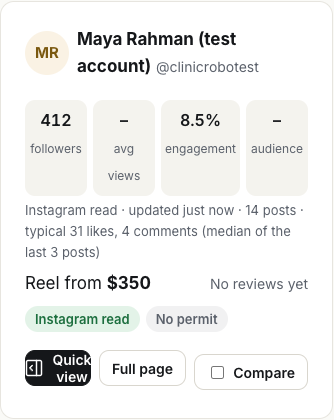
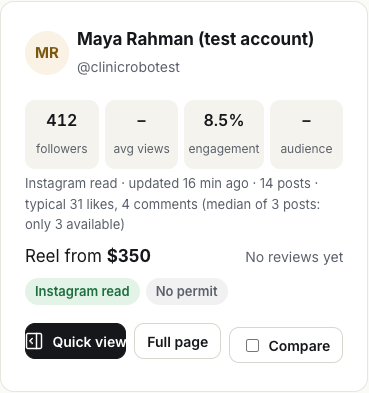
Small fixes: unknown rates show a dash, 12-post basis, one status word per money line, Quick view on one line

diff --git a/web/creators.html b/web/creators.html
@@ -116,7 +116,7 @@ function cardHtml(c) {
     <div class="row wrapx" style="gap:6px;margin-top:8px">${srcBadge(c.source)}${c.stale ? '<span class="pill failed">Data may be outdated</span>' : ""}
       <span class="pill ${c.permit.state === "ok" ? "collected" : c.permit.state === "soon" ? "waiting" : ""}">${c.permit.state === "ok" ? "Permit <i data-lucide='check' aria-hidden='true'></i>" : c.permit.state === "missing" ? "No permit" : "Permit: " + esc(c.permit.label)}</span></div>
     <div class="row" style="gap:8px;margin-top:10px">
-      <button class="btn small primary grow" data-qv="${esc(c.handle)}"><i data-lucide='panel-right-open' aria-hidden='true'></i> Quick view</button>
+      <button class="btn small primary grow" data-qv="${esc(c.handle)}" style="white-space:nowrap"><i data-lucide='panel-right-open' aria-hidden='true'></i> Quick view</button>
       <a class="btn small" href="/c/${esc(c.handle)}">Full page</a>
       <label class="btn small" style="gap:6px"><input type="checkbox" data-cmp="${c.id}" ${CMP.has(c.id) ? "checked" : ""} style="width:auto"> Compare</label></div>
   </div>`;
@@ -139,7 +139,7 @@ async function quickView(handle) {
     <div class="row wrapx" style="gap:6px">${(p.niches || []).map(n => `<span class="pill">${esc(n)}</span>`).join("")}</div>
     <h3 style="margin-top:16px">Reach</h3>
     ${(p.metrics || []).map(m => `<div class="stats"><div><b>${fmtN(m.followers)}</b><span>${esc(m.platform)} followers</span></div><div><b>${fmtN(m.avg_views)}</b><span>avg views</span></div>
-      <div><b>${m.engagement_rate}%</b><span>engagement</span></div></div><p class="tiny muted" style="margin-top:-4px">${m.ig ? esc(igReadLine(m.ig)) : `${esc(SRC_LABEL[m.source] || m.source)} · as of ${esc(m.as_of)}`}${m.stale ? " · may be outdated" : ""}</p>`).join("") || '<p class="small muted">No numbers shared yet.</p>'}
+      <div><b>${pct(m.engagement_rate)}</b><span>engagement</span></div></div><p class="tiny muted" style="margin-top:-4px">${m.ig ? esc(igReadLine(m.ig)) : `${esc(SRC_LABEL[m.source] || m.source)} · as of ${esc(m.as_of)}`}${m.stale ? " · may be outdated" : ""}</p>`).join("") || '<p class="small muted">No numbers shared yet.</p>'}
     <h3>Prices</h3><div class="list">${p.items.filter(i => i.standard_cents != null).slice(0, 6).map(i => `<div class="line"><div class="grow">${esc(i.name)}</div><div class="amt">${usd(i.standard_cents)}<div class="aed">${esc(i.aed)}</div></div></div>`).join("")}</div>
     <p class="small muted" style="margin-top:10px">On Amend: ${tr.completed || 0} deals completed${tr.rating ? ` · rating ${tr.rating} (${tr.reviews})` : ""}</p>
     ${brand && lists.length ? `<label for="qv-list">Add to a shortlist</label><div class="row" style="gap:8px"><select id="qv-list">${lists.map(l => `<option value="${l.id}">${esc(l.name)}</option>`).join("")}</select>

diff --git a/web/static/app.js b/web/static/app.js
@@ -63,8 +63,11 @@ function humanDates(s) { return String(s == null ? "" : s).replace(/\b\d{4}-\d{2
 function igReadLine(ig) {
   if (!ig) return "";
   const n = v => v == null ? "–" : Number(v).toLocaleString("en-US");
-  return `Instagram read · updated ${ago(ig.read_at)} · ${n(ig.posts)} posts · typical ${n(ig.median_likes)} likes, ${n(ig.median_comments)} comments (median of the last ${n(ig.posts_used)} posts)`;
+  const used = ig.posts_used || 0;
+  const basis = used >= 12 ? "median of the last 12 posts" : used ? `median of ${used} post${used === 1 ? "" : "s"}: only ${used} available` : "no posts available";
+  return `Instagram read · updated ${ago(ig.read_at)} · ${n(ig.posts)} posts · typical ${n(ig.median_likes)} likes, ${n(ig.median_comments)} comments (${basis})`;
 }
+function pct(v) { return v == null ? "–" : v + "%"; }  // a rate we can't work out shows "–", never 0%
 function fmtTime(iso) { return iso ? new Date(iso).toLocaleTimeString("en-US", { hour: "numeric", minute: "2-digit" }) : ""; }
 function dateStr(iso) { return iso ? new Date(iso).toLocaleDateString("en-GB", { day: "numeric", month: "short", year: "numeric" }) : ""; }
 
@@ -73,7 +76,13 @@ const MONEY_PILL = {
   authorized: ["Held", "held"], paid: ["Collected", "collected"], voided: ["Released", "released"],
   refunded: ["Refunded", "refunded"], failed: ["Failed", "failed"], expired: ["Hold expired", "expired"], cancelled: ["Cancelled", "planned"],
 };
-function moneyPill(status) { if (!status) return ""; const [t, c] = MONEY_PILL[status] || [status, ""]; return `<span class="pill ${c}">${t}</span>`; }
+// "paid" means different things per kind of money line: one word everywhere (Table, row details, Ledger)
+const PAID_WORD = { payout: "Paid out", refund: "Refunded", owed_by_creator: "Settled", platform_cost: "Paid by Amend" };
+function moneyWord(status, kind) {
+  if (status === "paid") return PAID_WORD[kind] || "Collected";
+  return (MONEY_PILL[status] || [status])[0];
+}
+function moneyPill(status, kind) { if (!status) return ""; const c = (MONEY_PILL[status] || ["", ""])[1]; return `<span class="pill ${c}">${moneyWord(status, kind)}</span>`; }
 const DEAL_LABEL = { draft: "Waiting for brief", offered: "Offer to accept", accepted: "Accepted", in_progress: "In progress",
   delivered: "Delivered", completed: "Done", paused: "Paused", cancelled: "Cancelled" };
 function dealPill(s) { return `<span class="pill status">${DEAL_LABEL[s] || s}</span>`; }

diff --git a/web/deal.html b/web/deal.html
@@ -703,7 +703,7 @@ async function spineTable() {
   d.showModal ? d.showModal() : d.setAttribute("open", "");
   await AGrid.mount($("#spine-grid"), { narrowFirst: ["amount_cents", "status"], narrowHide: ["deal_name"], rows, file: `amend-paypal-${KEY}.csv`.replace(/[^\w.-]/g, ""), placeholder: "Search PayPal ID, step…", label: "PayPal objects", pageSize: 10,
     onRow: r => AGrid.detail(r.step, [["Why", r.why], ["Receipt hash (version " + r.version + ")", r.receipt_hash, true], ["Amount", usd(r.amount_cents)],
-      ["Status in Amend", r.status], ["PayPal-Request-Id", r.request_id, true], ["custom_id", r.custom_id, true], ["invoice_id", r.invoice_id, true],
+      ["Status in Amend", moneyWord(r.status, r.kind)], ["PayPal-Request-Id", r.request_id, true], ["custom_id", r.custom_id, true], ["invoice_id", r.invoice_id, true],
       ...r.objects.map(o => [`${o.type} (${o.api})`, `${o.id}${o.seen ? ` · ${o.seen.status} · from ${o.seen.source === "get" ? "GET" : o.seen.source === "response" ? "reply" : o.seen.source}` : " · not checked yet"}`, true])]),
     columns: [
       { field: "date", width: 115, valueFormatter: p => fmtDate(p.value) },
@@ -713,7 +713,7 @@ async function spineTable() {
       { field: "paypal_id", headerName: "PayPal ID", width: 170 },
       { field: "why", headerName: "Why", flex: 2, minWidth: 260, tooltipField: "why", valueFormatter: p => (p.value || "").length > 70 ? p.value.slice(0, 68) + "…" : p.value },
       { field: "amount_cents", headerName: "Amount", width: 110, valueFormatter: p => usd(p.value), filter: "agNumberColumnFilter", type: "rightAligned" },
-      { field: "status", width: 120, cellRenderer: p => moneyPill(p.value) },
+      { field: "status", width: 120, cellRenderer: p => moneyPill(p.value, p.data.kind), valueFormatter: p => moneyWord(p.value, p.data.kind) },
       { field: "source", width: 200, cellRenderer: AGrid.source },
       { headerName: "Balance", width: 150, valueGetter: p => !p.data.conservation ? "" : p.data.conservation.demo ? "Demo: not checked"
           : p.data.conservation.ok ? "Balances" : `Mismatch: off by $${(Math.abs(p.data.conservation.off_by) / 100).toFixed(2)}`,

diff --git a/web/creator.html b/web/creator.html
@@ -43,7 +43,7 @@ function metricsHtml(c) {
     ${m.ig ? `<p class="small ig-read" style="margin:4px 0 0">${esc(igReadLine(m.ig))}</p>` : ""}
     ${m.stale ? '<div class="banner wait small" style="margin-top:8px">Data may be outdated (older than 60 days)</div>' : ""}
     <div class="stats"><div><b>${fmtN(m.followers)}</b><span>followers</span></div><div><b>${fmtN(m.avg_views)}</b><span>avg views</span></div>
-      <div><b>${m.engagement_rate}%</b><span>engagement</span></div><div><b>${m.view_rate}%</b><span>view rate</span></div></div>
+      <div><b>${pct(m.engagement_rate)}</b><span>engagement</span></div><div><b>${pct(m.view_rate)}</b><span>view rate</span></div></div>
     <p class="hint">Engagement = (avg likes + avg comments) ÷ followers. View rate = avg views ÷ followers. Worked out by Amend.</p>
     <div class="row wrapx" style="gap:16px;align-items:flex-start">
       <div class="grow" style="min-width:150px"><h3>Countries</h3>${bars(m.audience.countries)}</div>

diff --git a/web/studio.html b/web/studio.html
@@ -50,7 +50,7 @@ const KIND_LABEL = { hold: "Hold", capture: "Collected", release: "Release", ref
 function ledgerPill(r) {
   return r.status === "approved" && r.kind === "payout" && /^Holdback/.test(r.item || "") ? `<span class="pill held">Scheduled</span>`
     : r.status !== "paid" ? moneyPill(r.status)
-    : `<span class="pill collected">${{ payout: "Paid", refund: "Refunded", owed_by_creator: "Settled", platform_cost: "Paid by Amend" }[r.kind] || "Collected"}</span>`;
+    : moneyPill(r.status, r.kind);
 }
 function moneyRowDetail(r, title) {
   AGrid.detail(title || r.item || "Payment", [

diff --git a/tests/test_freeze_fixes.py b/tests/test_freeze_fixes.py
@@ -91,3 +91,44 @@ def test_spine_lines_carry_the_ledgers_why(client, mocks, held):
             assert l["why"] == ledger[l["paypal_id"]]  # same words as the Ledger
     b = client.get(f"/api/d/{tok}/spine").json()
     assert all(l.get("why") for ver in b["versions"] for l in ver["lines"])
+
+
+# ---------- small fixes (11 Nov): unknown is "–", 12-post basis, one status word, Quick view on one line ----------
+
+def test_rates_unknown_never_zero():
+    from amend.discovery import rates
+    assert rates({"followers": 412, "avg_likes": 31, "avg_comments": 4, "avg_views": None}) == {"engagement_rate": 8.5, "view_rate": None}
+    assert rates({"followers": 0, "avg_likes": 31, "avg_comments": 4, "avg_views": 900}) == {"engagement_rate": None, "view_rate": None}
+    assert rates({"followers": 1000, "avg_views": 0, "avg_likes": 0, "avg_comments": 0}) == {"engagement_rate": 0.0, "view_rate": 0.0}  # a real 0 stays 0
+
+
+def _node(js: str) -> str:
+    import subprocess
+    from pathlib import Path
+    app = (Path(__file__).resolve().parents[1] / "web/static/app.js").read_text()
+    import re
+    one_line = lambda name: re.search(rf"^(?:const|function) {name}\b.*$", app, re.M).group(0)          # single-line definitions
+    block = lambda name: re.search(rf"^(?:const {name} = \{{|function {name}\().*?^}};?$", app, re.S | re.M).group(0)  # multi-line
+    src = "\n".join([block("MONEY_PILL"), one_line("PAID_WORD"), block("moneyWord"), one_line("pct"), block("ago"), block("igReadLine")])
+    return subprocess.run(["node", "-e", src + "\n" + js], capture_output=True, text=True, check=True).stdout
+
+
+def test_page_words():
+    out = json.loads(_node("""console.log(JSON.stringify([
+      pct(null), pct(8.5),
+      moneyWord("paid", "capture"), moneyWord("paid", "hold"), moneyWord("paid", "payout"), moneyWord("paid", "refund"),
+      moneyWord("authorized", "hold"), moneyWord("voided", "hold"),
+      igReadLine({posts: 14, median_likes: 31, median_comments: 4, posts_used: 12, read_at: new Date().toISOString()}),
+      igReadLine({posts: 3, median_likes: 31, median_comments: 4, posts_used: 3, read_at: new Date().toISOString()})]))"""))
+    assert out[:2] == ["–", "8.5%"]
+    assert out[2:8] == ["Collected", "Collected", "Paid out", "Refunded", "Held", "Released"]
+    assert out[8].endswith("(median of the last 12 posts)")
+    assert out[9].endswith("(median of 3 posts: only 3 available)")
+
+
+def test_detail_and_table_use_the_same_word_and_quick_view_does_not_wrap():
+    from pathlib import Path
+    web = Path(__file__).resolve().parents[1] / "web"
+    deal = (web / "deal.html").read_text()
+    assert '["Status in Amend", moneyWord(r.status, r.kind)]' in deal and "moneyPill(p.value, p.data.kind)" in deal
+    assert 'data-qv="${esc(c.handle)}" style="white-space:nowrap"' in (web / "creators.html").read_text()

diff --git a/tests/browser/freeze_fixes.py b/tests/browser/freeze_fixes.py
@@ -38,10 +38,16 @@ with sync_playwright() as p:
         t = card.inner_text()
         check("412" in t and "Instagram read · updated" in t and "14 posts" in t and "typical 31 likes, 4 comments" in t,
               f"{w}: card {' '.join(t.split())[:200]!r}")
+        qv = card.locator("[data-qv]")
+        lh = float(qv.evaluate("e => parseFloat(getComputedStyle(e).lineHeight) || 20"))
+        check(qv.evaluate("e => e.getBoundingClientRect().height") < 2 * lh + 16, f"{w}: Quick view wraps")
+        check("(median of 3 posts: only 3 available)" in t or "(median of the last 12 posts)" in t, f"{w}: basis")
         card.screenshot(path=str(OUT / f"1-maya-card-{w}.png"))
         pg.goto(f"{BASE}/c/clinicrobotest"); pg.wait_for_selector(".ig-read", timeout=20000)
         t = pg.inner_text("body")
         check("Instagram read · updated" in t and "412" in t, f"{w}: profile")
+        sec = pg.locator(".card", has=pg.locator(".ig-read")).first.inner_text()
+        check("0%" not in sec.replace("8.5%", "") and "–\nview rate" in sec, f"{w}: view rate not '–': {' '.join(sec.split())[:160]!r}")
         pg.locator(".card", has=pg.locator(".ig-read")).first.screenshot(path=str(OUT / f"1-maya-profile-{w}.png"))
         # 2. logged-out handle search
         pg.goto(f"{BASE}/creators?q=%40thishandledoesnotexist123"); pg.wait_for_selector("#invite-box", timeout=20000)
@@ -57,8 +63,15 @@ with sync_playwright() as p:
         if w == 1440:
             check("Why" in heads, f"{w}: no Why header")
             check(cells and all(c.startswith("v") for c in cells) and any("confirmed by" in c for c in cells), f"{w}: why cells {cells[:3]}")
-        pg.locator("#spine-grid .ag-row").first.click(); pg.wait_for_timeout(600)
-        check("Why" in pg.inner_text("body"), f"{w}: row details have no Why")
+        words = [x.inner_text().strip() for x in pg.query_selector_all("#spine-grid .ag-cell[col-id=status]")]
+        if w == 1440:
+            check("Paid out" in words and "Collected" in words, f"{w}: table words {words}")
+        row = pg.locator("#spine-grid .ag-row", has_text="$81").first
+        table_word = row.locator(".ag-cell[col-id=status]").inner_text().strip() if w == 1440 else "Paid out"
+        row.click(); pg.wait_for_timeout(600)
+        body = pg.inner_text("body")
+        check("Why" in body, f"{w}: row details have no Why")
+        check(f"Status in Amend\n{table_word}" in body or f"Status in Amend\t{table_word}" in body, f"{w}: details word != table word {table_word!r}")
         pg.screenshot(path=str(OUT / f"3-table-why-{w}.png"))
         check(pg.evaluate("document.documentElement.scrollWidth") <= w, f"{w}: sideways scroll")
         pg.close()

diff --git a/amend/business.py b/amend/business.py
@@ -72,8 +72,10 @@ def mediakit_pdf(db: Database, creator: dict) -> bytes:
            "demo": "demo data", "self_reported": "self-reported"}
     doc.text("Reach and engagement", 13, bold=True)
     for m in prof["metrics"]:
-        doc.text(f"{m['platform'].title()}: {m['followers']:,} followers · avg views {m['avg_views'] or 0:,} · engagement {m['engagement_rate']}% · "
-                 f"view rate {m['view_rate']}%", 10)
+        pct = lambda v: "–" if v is None else f"{v}%"  # unknown, never 0%
+        views = "–" if m["avg_views"] is None else f"{m['avg_views']:,}"
+        doc.text(f"{m['platform'].title()}: {m['followers']:,} followers · avg views {views} · engagement {pct(m['engagement_rate'])} · "
+                 f"view rate {pct(m['view_rate'])}", 10)
         doc.text(f"   Source: {src.get(m['source'], m['source'])} · as of {m['as_of']}{' (may be outdated)' if m['stale'] else ''}", 9,
                  color=(0.36, 0.38, 0.42))
         aud = m.get("audience") or {}

diff --git a/amend/discovery.py b/amend/discovery.py
@@ -108,10 +108,12 @@ def tier(followers: int) -> str:
 
 
 def rates(m: dict) -> dict:
+    """Unknown stays unknown (None, shown "–"), never 0%: no followers → no rates; no avg views → no view rate."""
     f = m.get("followers") or 0
-    er = ((m.get("avg_likes") or 0) + (m.get("avg_comments") or 0)) / f if f else 0.0
-    vr = (m.get("avg_views") or 0) / f if f else 0.0
-    return {"engagement_rate": round(er * 100, 2), "view_rate": round(vr * 100, 1)}
+    likes, comments, views = m.get("avg_likes"), m.get("avg_comments"), m.get("avg_views")
+    er = ((likes or 0) + (comments or 0)) / f if f and (likes is not None or comments is not None) else None
+    vr = views / f if f and views is not None else None
+    return {"engagement_rate": None if er is None else round(er * 100, 2), "view_rate": None if vr is None else round(vr * 100, 1)}
 
 
 def latest_metrics(db: Database, creator_id: str) -> list[dict]:

diff --git a/tests/test_discovery.py b/tests/test_discovery.py
@@ -19,7 +19,7 @@ def test_24_demo_creators_seeded(client):
 def test_rates_worked_out_by_code():
     assert discovery.rates({"followers": 10000, "avg_likes": 450, "avg_comments": 50, "avg_views": 4000}) == \
         {"engagement_rate": 5.0, "view_rate": 40.0}
-    assert discovery.rates({"followers": 0}) == {"engagement_rate": 0.0, "view_rate": 0.0}
+    assert discovery.rates({"followers": 0}) == {"engagement_rate": None, "view_rate": None}  # unknown, never 0%
 
 
 def test_s61_combined_filters(client):

diff --git a/docs/progress.md b/docs/progress.md
@@ -898,3 +898,14 @@ question wasn't answered, so the recommended option was taken.
 - Tests: `tests/test_freeze_fixes.py` (7) + test_invites empty states (logged out / creator). Browser
   `tests/browser/freeze_fixes.py` 390 + 1440 after `try_path.py`: problems none, no JS errors; shots in
   `docs/screenshots/freeze-fixes/`. **Tests: 876 passed, 3 skipped.**
+
+## Small fixes from the local screenshots (11 Nov)
+- Rates: unknown shows "–", never 0%. View rate needs avg views; both rates need followers (`discovery.rates` returns
+  None; card, quick view, profile and the media-kit PDF show "–"). A real 0 stays 0%.
+- Maya's typical likes / comments: median of the last 12 posts (Instagram returns at most 12); fewer → "median of N
+  posts: only N available".
+- One status word per money line, by kind, everywhere (deal Table, its row details, the Ledger): Held, Collected
+  (captures and collected holds), Released, Paid out (payouts; the Ledger said "Paid"), Refunded.
+- "Quick view" stays on one line on narrow cards.
+- Tests: `tests/test_freeze_fixes.py` +3 (page words run in Node), test_discovery rates. Browser
+  `tests/browser/freeze_fixes.py` 390 + 1440: problems none, no JS errors. **Tests: 879 passed, 3 skipped.**
